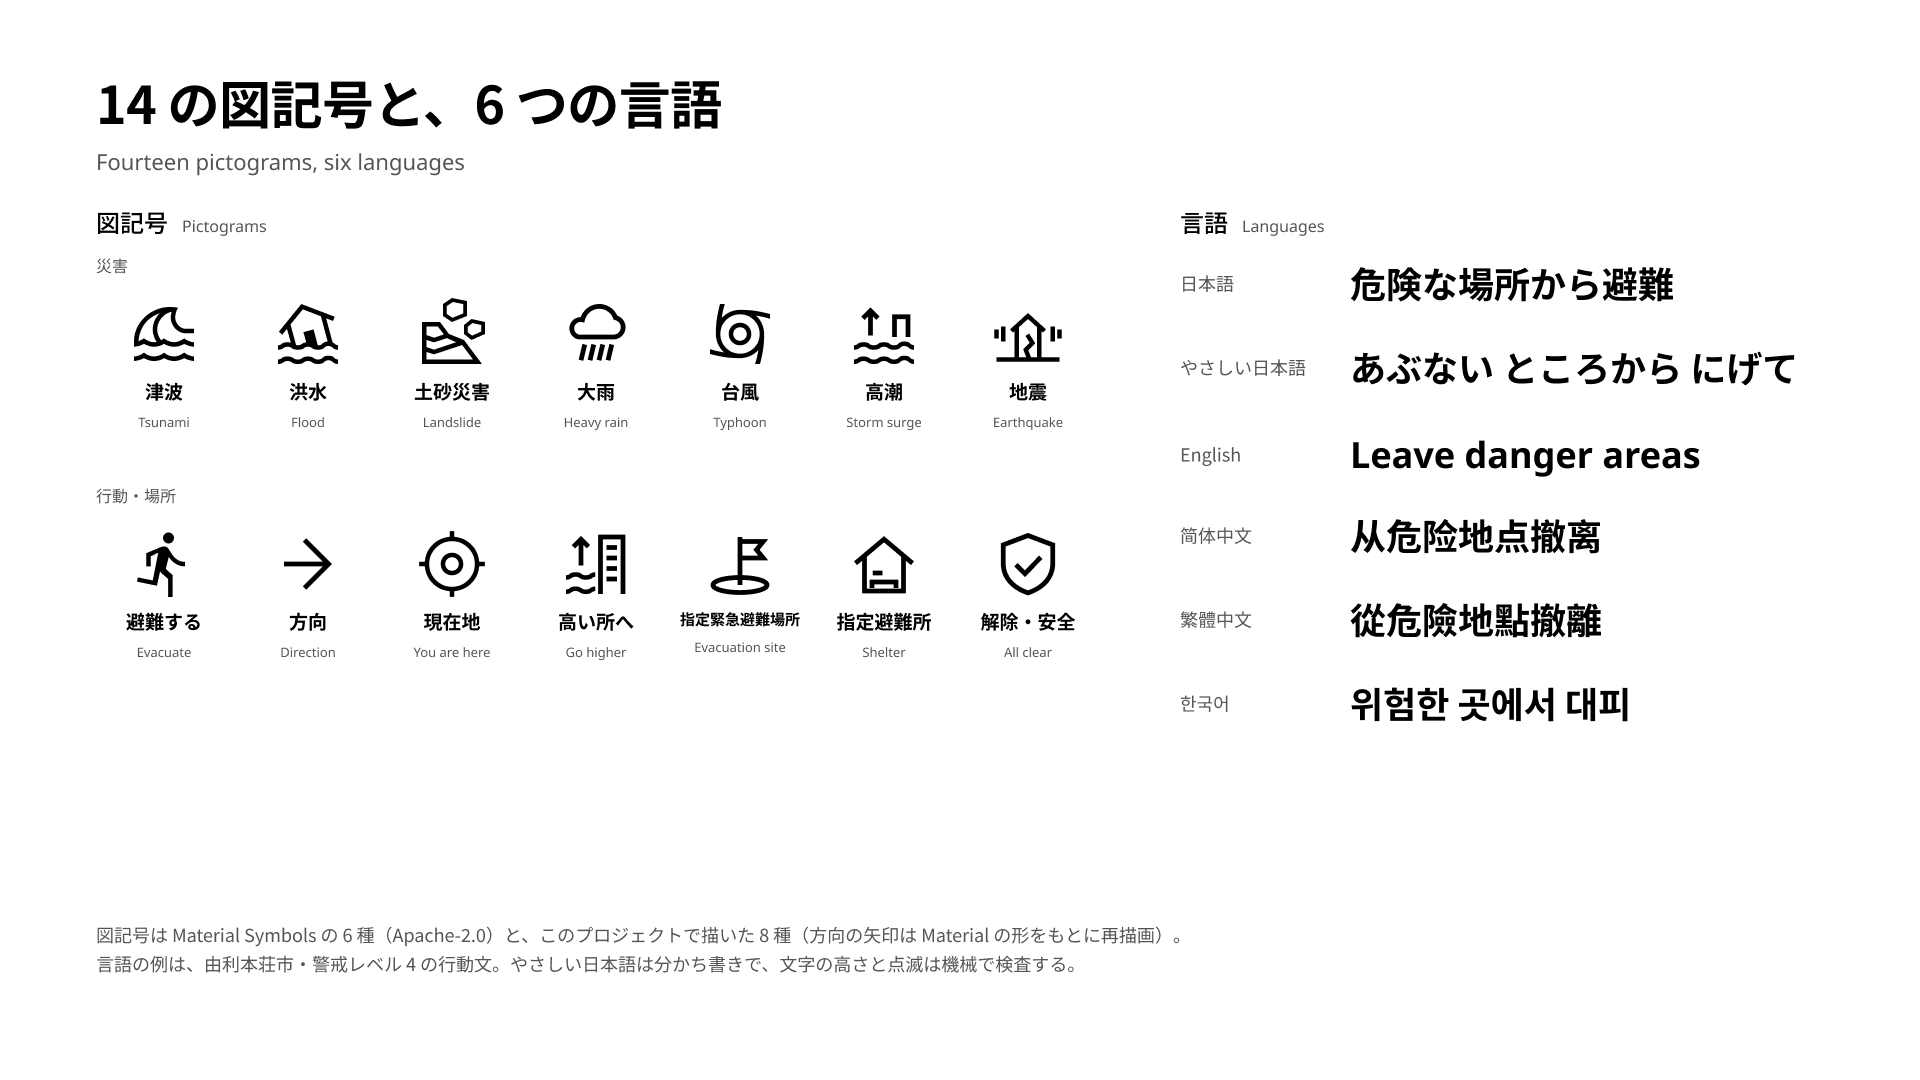
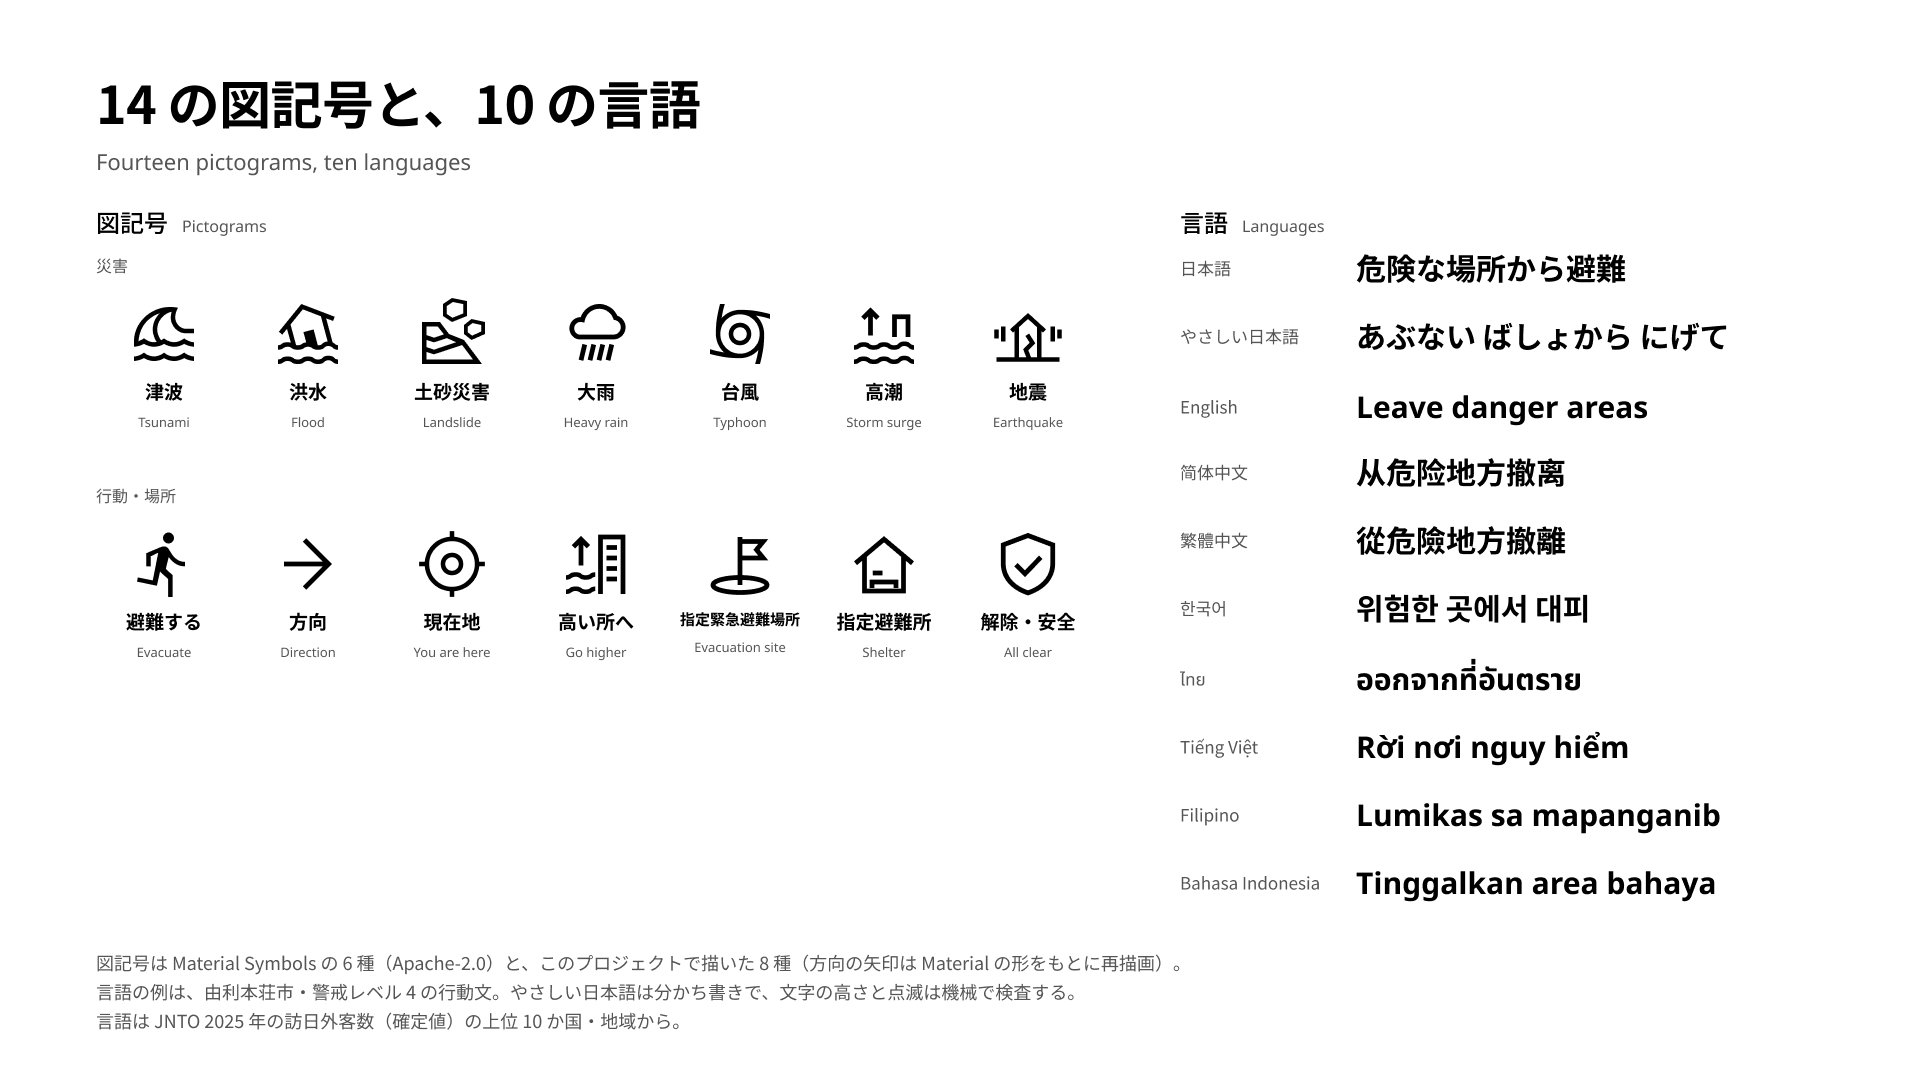
docs: sheet 2 and README say ten languages

diff --git a/README.md b/README.md
@@ -24,9 +24,9 @@
 
 気象庁の 4 種別の電文（大雨・土砂災害・指定河川の洪水・津波）と、内閣府の警戒レベル 1〜5（原典色・帯の文字はすべてコントラスト 4.5:1 以上）。
 
-![14 の図記号と、言語](docs/sheets/sheet2-pictograms-languages.png)
+![14 の図記号と、10 の言語](docs/sheets/sheet2-pictograms-languages.png)
 
-行動の図記号 14 種（Material Symbols 6・描き直し 1・自作 7）と、日本語・やさしい日本語・英語・中国語（簡体・繁体）・韓国語の行動文。
+行動の図記号 14 種（Material Symbols 6・描き直し 1・自作 7）と、10 の言語の行動文（日本語・やさしい日本語・英語・簡体中文・繁體中文・韓国語・タイ語・ベトナム語・フィリピン語・インドネシア語。JNTO 2025 年の訪日外客数の上位 10 か国・地域から）。
 
 ![どんなスクリーンサイズでも、必要な情報を正確に。](docs/sheets/sheet3-aspect-sweep.png)
 
@@ -48,7 +48,7 @@ EVAC LAYER に画面の座標を渡します。コンコースの柱、商業施
 
 1. **読む** — その自治体のハザードマップ PDF と国土地理院の指定緊急避難場所データを読み、すべての記述に出典ページを残す。
 2. **聞く** — 気象庁の防災情報 XML（2026 年 10 月から記録している実フィード）を受け、警報・内閣府の警戒レベル（1〜5）・対象地域を判定する。
-3. **書く** — その施設・その電文のための案内を書く。行動を日本語・やさしい日本語・英語・中国語・韓国語で、行動の図記号つきで。市町村だけが出せる避難情報の名称は使わない。
+3. **書く** — その施設・その電文のための案内を書く。行動を日本語・やさしい日本語・英語・簡体中文・繁體中文・韓国語・タイ語・ベトナム語・フィリピン語・インドネシア語の 10 言語で、行動の図記号つきで。市町村だけが出せる避難情報の名称は使わない。
 4. **組んで描く** — 同じ案内を 5 つの基準形状（16:9・9:16・32:9・1:1・柱に巻く LED）に組み、Renderer はどんな画角にもいちばん近い基準形状を収めて描く。視距離から導いた文字サイズ、内閣府原典の警戒レベル色、点滅なし。
 5. **検査する** — すべての画面を 3 段で。スキーマと規則、描画した DOM のブラウザ検査（溢れ・欠け・距離の重複）、PNG を電文と照らす Vision 検査。指摘は Writer に戻し、書き直しで直らないものはパイプラインを止める。
 6. **イベントを発火する** — 電文が届いたら、その場所の `alert` / `clear` イベントを、全形状の承認済み画面を添えて出す。フィード、署名つき Webhook、静的ファイル。どのサイネージシステムでも受けられる。
@@ -161,6 +161,6 @@ AGPL-3.0（`LICENSE`）。Copyright (C) 2026 You Tanaka。
 
 **The screens are already there, and each one knows where it stands.** What is missing is what to draw for that spot, the moment after the takeover. EVAC LAYER draws it — for any screen in Japan, generated with Claude.
 
-Give EVAC LAYER the coordinates of a screen and it works out the rest for that spot: the municipality whose bulletins apply, the nearest designated evacuation site from GSI data, and the direction and distance from where the viewer stands. It reads the municipality's own hazard-map PDFs with citations (Reader, Claude), listens to JMA disaster-prevention XML, writes the guidance in plain Japanese, *yasashii nihongo*, English, Chinese and Korean with action pictograms (Writer, Claude), composes it for five screen shapes, inspects every screen by rules, in a browser and by Vision (Claude), and fires `alert` / `clear` events carrying only operator-approved screens — as a feed, a signed webhook or static files. Any signage system can act on them.
+Give EVAC LAYER the coordinates of a screen and it works out the rest for that spot: the municipality whose bulletins apply, the nearest designated evacuation site from GSI data, and the direction and distance from where the viewer stands. It reads the municipality's own hazard-map PDFs with citations (Reader, Claude), listens to JMA disaster-prevention XML, writes the guidance in ten languages (Japanese, *yasashii nihongo*, English, Simplified and Traditional Chinese, Korean, Thai, Vietnamese, Filipino and Indonesian) with action pictograms (Writer, Claude), composes it for five screen shapes, inspects every screen by rules, in a browser and by Vision (Claude), and fires `alert` / `clear` events carrying only operator-approved screens — as a feed, a signed webhook or static files. Any signage system can act on them.
 
 Built from scratch during Built with Claude: Japan 2026 (Nov 2–8). Everything in this repository was written from Nov 2, 12:00 JST, by one commander session and three Claude Code implementation seats on their own git worktrees. Licensed AGPL-3.0; free for municipalities, public-safety organizations, research and personal use; commercial license for embedding into proprietary signage products: you@ie3.jp.
